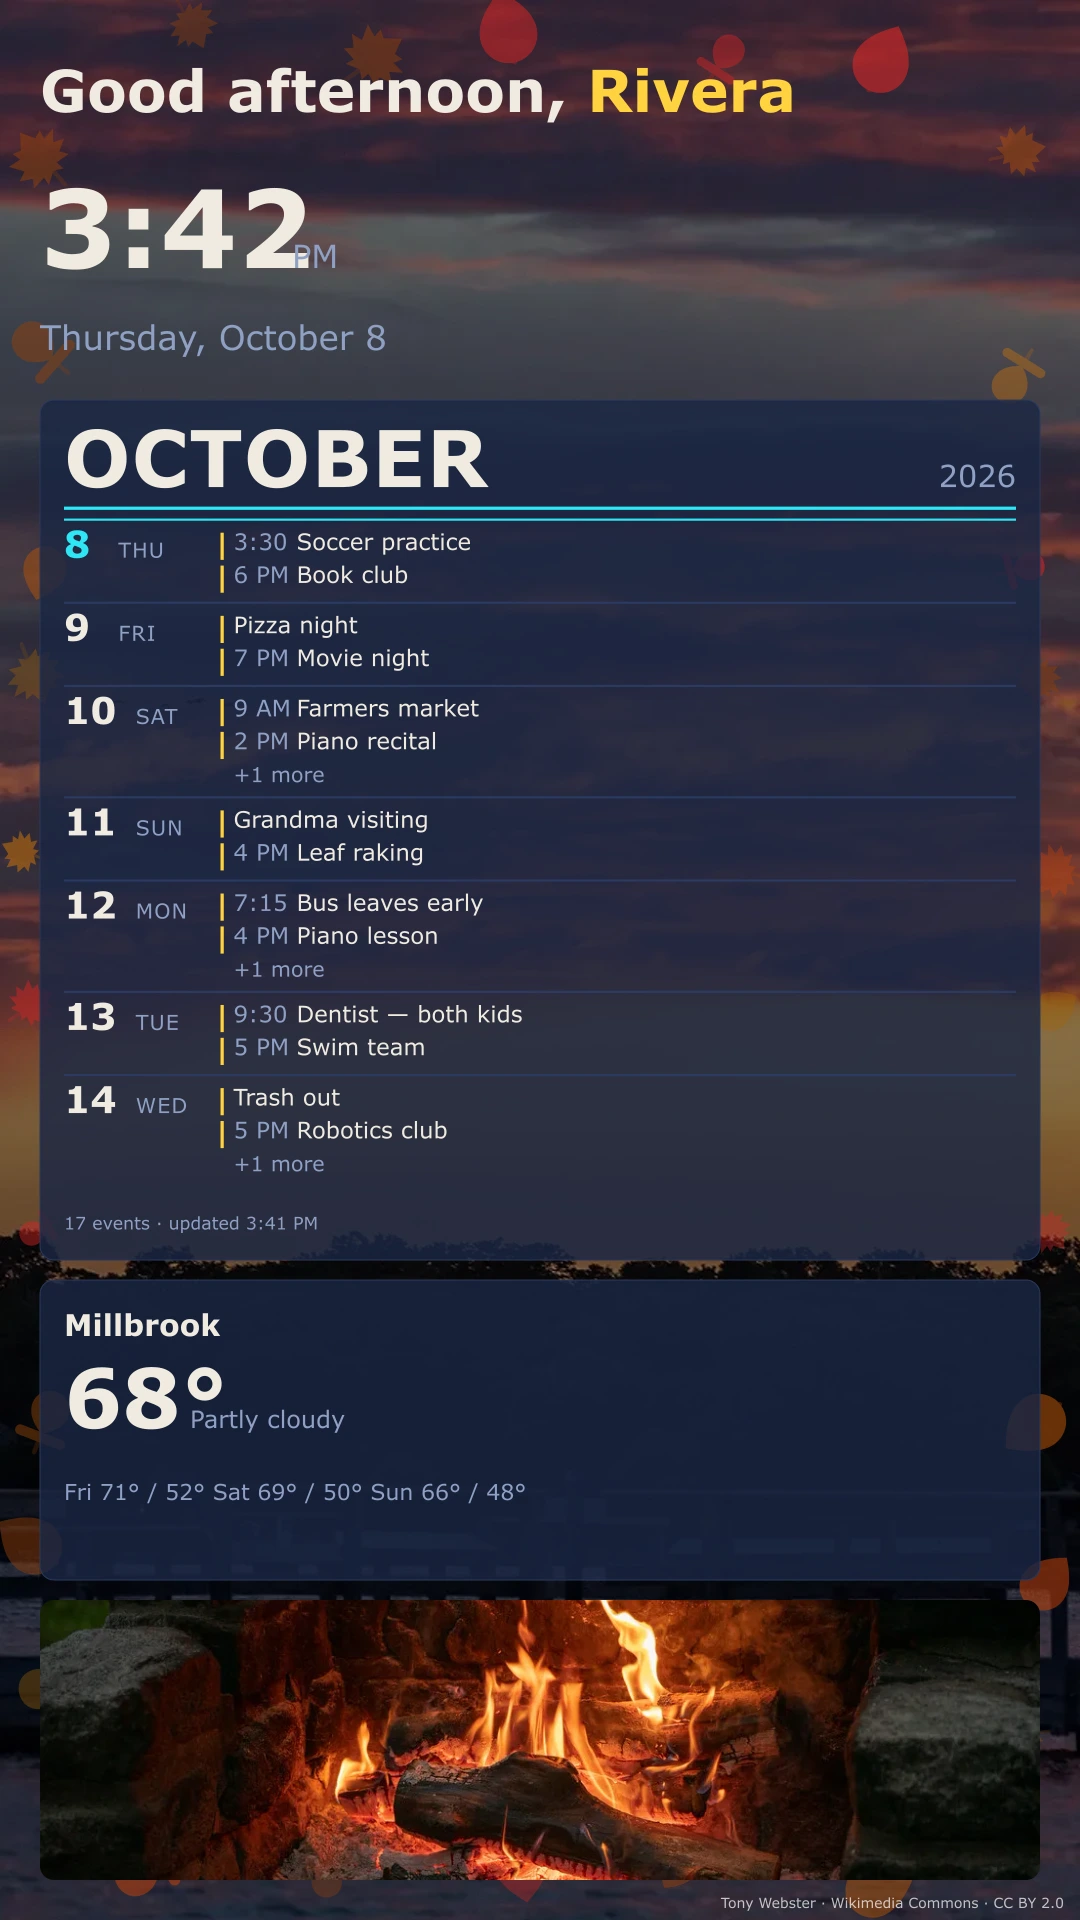
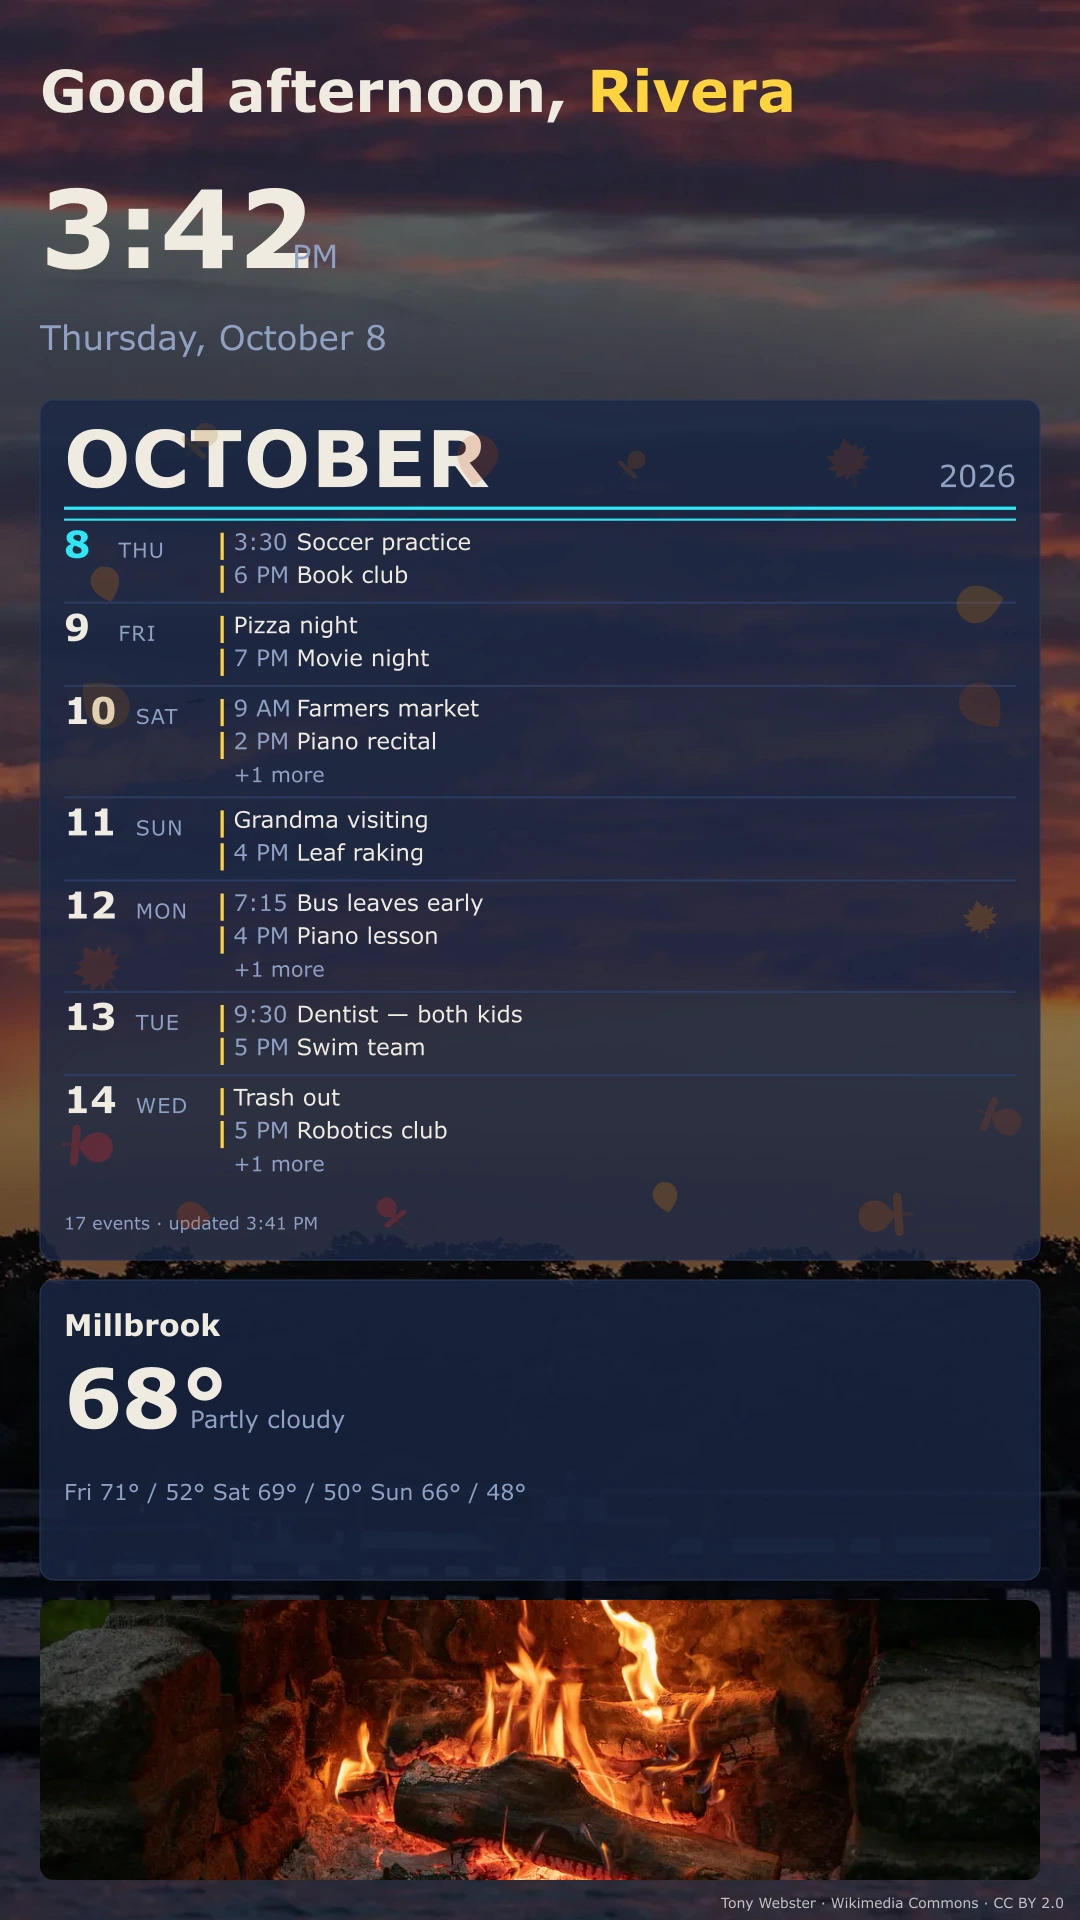
fix(board): the season belongs to the calendar, not the whole screen
The decor lined the entire board at z-index 2, which put it ABOVE the
weather mood layer. Autumn leaves were being drawn on top of the rain
streaks, and on top of whatever wallpaper the household had chosen. Two
ambient systems arguing over one piece of glass is one too many (operator,
2026-08-31).

The season now lines the inside of the calendar card only - the one widget
the season is actually about - at half opacity so it reads as a watermark
behind dates and event titles rather than competing with them. The board is
left to the wallpaper and the weather, which is what the weather layer was
designed to own.

The toggle keeps its name and its position in the editor; only its reach and
its wording change. The demo images are regenerated, because a README
picture showing decor the app no longer draws is a lie in a screenshot.

Claude-Session: https://claude.ai/code/session_01SQrbjAwPUvp651G1yQ6Uip

diff --git a/scripts/render-demo-board.ts b/scripts/render-demo-board.ts
@@ -169,10 +169,15 @@ function strip(): string {
   return p.join("");
 }
 
-/** Fall decor, straight out of the module the app renders from. */
-function decor(): string {
+/**
+ * Fall decor, straight out of the module the app renders from. Draws into a
+ * box rather than the whole board: the app lines the inside of the CALENDAR
+ * CARD, so that the board is left to the wallpaper and the weather layer and
+ * leaves never end up drawn on top of the rain.
+ */
+function decor(w: number, h: number, opacityScale = 1): string {
   const d = SEASON_DECOR.fall;
-  return seasonalFrame("fall", W, H)
+  return seasonalFrame("fall", w, h)
     .map((piece) => {
       const g = d.glyphs[piece.glyph]!;
       const filled = Boolean(g.paths?.length || g.circles?.length);
@@ -184,9 +189,16 @@ function decor(): string {
       const detail = g.detail
         ? `<path d="${g.detail}" fill="none" stroke="${piece.color}" stroke-width="${filled ? 1.3 : 1.7}" stroke-linecap="round" opacity="${filled ? 0.5 : 1}"/>`
         : "";
-      return `<g transform="translate(${piece.x + piece.size / 2} ${piece.y + piece.size / 2}) rotate(${piece.rot}) scale(${k}) translate(-12 -12)" opacity="${piece.opacity}" fill="${piece.color}">${body}${detail}</g>`;
+      const op = (piece.opacity * opacityScale).toFixed(3);
+      return `<g transform="translate(${piece.x + piece.size / 2} ${piece.y + piece.size / 2}) rotate(${piece.rot}) scale(${k}) translate(-12 -12)" opacity="${op}" fill="${piece.color}">${body}${detail}</g>`;
     })
     .join("");
+}
+
+/** Wraps decor in the card's interior, in the card's own zoomed units. */
+function cardDecor(x: number, y: number, w: number, h: number): string {
+  const scale = Math.min(4, Math.max(0.5, Math.sqrt((w * h) / (1300 * 560))));
+  return `<g transform="translate(${x + 24} ${y + 24}) scale(${scale.toFixed(4)})">${decor((w - 48) / scale, (h - 48) / scale, 0.5)}</g>`;
 }
 
 // ------------------------------------------------------------------- build
@@ -223,9 +235,9 @@ async function main(): Promise<void> {
 
   const overlay = `<svg xmlns="http://www.w3.org/2000/svg" width="${W}" height="${H}">
     <rect width="${W}" height="${H}" fill="#000" opacity="${wp.suggestedScrimOpacity.toFixed(3)}"/>
-    ${decor()}
     ${strip()}
     ${calendar()}
+    ${cardDecor(40, 200, 1300, 560)}
     ${weather()}
     ${text(W - 16, H - 12, credit, { size: 14, fill: "rgb(255,255,255,0.72)", anchor: "end" })}
   </svg>`;
@@ -326,30 +338,14 @@ async function renderPortrait(): Promise<void> {
     .png()
     .toBuffer();
 
-  const decorPieces = seasonalFrame("fall", PW, PH)
-    .map((piece) => {
-      const gl = SEASON_DECOR.fall.glyphs[piece.glyph]!;
-      const filled = Boolean(gl.paths?.length || gl.circles?.length);
-      const k = piece.size / 24;
-      const body = [
-        ...(gl.paths ?? []).map((path) => `<path d="${path}"/>`),
-        ...(gl.circles ?? []).map((c) => `<circle cx="${c.cx}" cy="${c.cy}" r="${c.r}"/>`),
-      ].join("");
-      const detail = gl.detail
-        ? `<path d="${gl.detail}" fill="none" stroke="${piece.color}" stroke-width="${filled ? 1.3 : 1.7}" stroke-linecap="round" opacity="${filled ? 0.5 : 1}"/>`
-        : "";
-      return `<g transform="translate(${piece.x + piece.size / 2} ${piece.y + piece.size / 2}) rotate(${piece.rot}) scale(${k}) translate(-12 -12)" opacity="${piece.opacity}" fill="${piece.color}">${body}${detail}</g>`;
-    })
-    .join("");
-
   const overlay = `<svg xmlns="http://www.w3.org/2000/svg" width="${PW}" height="${PH}">
     <rect width="${PW}" height="${PH}" fill="#000" opacity="${wp.suggestedScrimOpacity.toFixed(3)}"/>
-    ${decorPieces}
     <text x="40" y="112" font-family="${FONT}" font-size="58" font-weight="600" fill="${T.text}">Good afternoon, <tspan fill="${T.a1}">Rivera</tspan></text>
     ${text(40, 268, "3:42", { size: 108, weight: 600 })}
     ${text(292, 268, "PM", { size: 32, weight: 500, fill: T.muted })}
     ${text(40, 350, "Thursday, October 8", { size: 34, weight: 500, fill: T.muted })}
     ${portraitCalendar(40, 400, 1000, 860)}
+    ${cardDecor(40, 400, 1000, 860)}
     ${card(40, 1280, 1000, 300)}
     ${text(64, 1336, "Millbrook", { size: 30, weight: 600 })}
     ${text(64, 1428, "68°", { size: 82, weight: 600 })}

diff --git a/apps/web/components/board/seasonal-frame.tsx b/apps/web/components/board/seasonal-frame.tsx
@@ -1,39 +1,52 @@
 import { SEASON_DECOR, seasonFor, seasonalFrame, type Season } from "@/lib/board/season";
 
 /**
- * Seasonal decor scattered down the four edges of the board — leaves in
- * autumn, snowflakes in winter, blossom in spring, sun and green in summer.
+ * Seasonal decor scattered around the inside edges of the CALENDAR CARD —
+ * leaves in autumn, snowflakes in winter, blossom in spring, sun and green in
+ * summer.
+ *
+ * It used to line the whole board, and that was wrong (operator, 2026-08-31).
+ * The board already has a weather layer: rain streaks, drifting snow, a
+ * storm's lightning flash, plus the wallpaper the household chose. Decor
+ * across the whole screen at z-index 2 drew autumn leaves ON TOP of the rain
+ * and competed with every theme. Two ambient systems arguing over one piece
+ * of glass is one too many, so the season now lives where it is actually
+ * about something - the calendar - and the weather keeps the board.
  *
  * A server component on purpose: the layout is a pure function of the season
- * and the canvas size, so there is nothing to hydrate and no JavaScript ships
- * for it. The gentle sway is CSS, which globals.css already disables wholesale
- * under prefers-reduced-motion.
- *
- * Sits at z-index 2 — above the wallpaper and the weather tint, below the
- * photo credit (5) and every widget (10+), so it can never cover content.
+ * and the box it is given, so there is nothing to hydrate and no JavaScript
+ * ships for it. The gentle sway is CSS, which globals.css already disables
+ * wholesale under prefers-reduced-motion.
  */
 export function SeasonalFrame({
   now,
-  canvasW,
-  canvasH,
+  boxW,
+  boxH,
   season,
+  opacityScale = 1,
 }: {
   now: Date;
-  canvasW: number;
-  canvasH: number;
+  /** The box to line, in the coordinate space the caller draws in. */
+  boxW: number;
+  boxH: number;
   /** Overrides the date-derived season (the editor preview uses this). */
   season?: Season;
+  /**
+   * Dimmer inside a card than on open board, because here the decor sits
+   * behind dates and event titles that have to stay readable.
+   */
+  opacityScale?: number;
 }) {
   const s = season ?? seasonFor(now);
   const decor = SEASON_DECOR[s];
-  const pieces = seasonalFrame(s, canvasW, canvasH);
+  const pieces = seasonalFrame(s, boxW, boxH);
 
   return (
     <div
       data-part="seasonal-frame"
       data-season={s}
       aria-hidden
-      style={{ position: "absolute", inset: 0, overflow: "hidden", pointerEvents: "none", zIndex: 2 }}
+      style={{ position: "absolute", inset: 0, overflow: "hidden", pointerEvents: "none", zIndex: 0 }}
     >
       {pieces.map((p, i) => {
         const g = decor.glyphs[p.glyph]!;
@@ -60,7 +73,7 @@ export function SeasonalFrame({
               style={{
                 display: "block",
                 color: p.color,
-                opacity: p.opacity,
+                opacity: +(p.opacity * opacityScale).toFixed(3),
                 animationDuration: `${p.dur}s`,
                 animationDelay: `-${p.delay}s`,
                 filter: "drop-shadow(0 1px 2px rgb(0 0 0 / 0.35))",

diff --git a/apps/web/components/board/widget-view.tsx b/apps/web/components/board/widget-view.tsx
@@ -3,9 +3,10 @@ import { quoteForDay } from "@/lib/board/quotes";
 import { weatherKey, type WeatherPayload } from "@/lib/board/weather-codes";
 import { WeatherView } from "./weather-view";
 import { DayView, MonthView, WeekView } from "./calendar-view";
-import { safeWidgetConfig } from "@/lib/board/widgets";
+import { safeWidgetConfig, textScale } from "@/lib/board/widgets";
 import { ClockWidget } from "./clock";
 import { PhotosWidget } from "./photos";
+import { SeasonalFrame } from "./seasonal-frame";
 
 export type CalendarEvent = { uid: string; title: string; location: string | null; start: string; end: string; allDay: boolean };
 export type CalendarFeed = { events: CalendarEvent[]; syncedAt: Date | null; error: string | null };
@@ -21,6 +22,8 @@ export type BoardData = {
   /** keyed by photos widget id — present only when the widget uses a link. */
   linkPhotos: Record<string, { srcs: string[]; error: string | null }>;
   now: Date;
+  /** Whether the calendar card wears the season. */
+  seasonalDecor: boolean;
 };
 
 function greetingFor(hour: number): string {
@@ -79,11 +82,27 @@ export function WidgetView({ widget, data }: { widget: BoardWidgetRow; data: Boa
     case "calendar": {
       const c = safeWidgetConfig("calendar", widget.config);
       const feed = data.calendars[widget.id];
-      if (c.view === "day") return <DayView now={data.now} feed={feed} />;
-      if (c.view === "month") return <MonthView now={data.now} feed={feed} />;
-      // The week view picks its own layout from how wide a day column would
-      // really be, so it needs the card's size, not just its contents.
-      return <WeekView now={data.now} days={c.days} feed={feed} w={widget.w} h={widget.h} fontScale={c.fontScale} />;
+      const body =
+        c.view === "day" ? (
+          <DayView now={data.now} feed={feed} />
+        ) : c.view === "month" ? (
+          <MonthView now={data.now} feed={feed} />
+        ) : (
+          // The week view picks its own layout from how wide a day column
+          // would really be, so it needs the card's size, not just its
+          // contents.
+          <WeekView now={data.now} days={c.days} feed={feed} w={widget.w} h={widget.h} fontScale={c.fontScale} />
+        );
+      if (!data.seasonalDecor) return body;
+      // The card's interior in the widget's own (zoomed) units, which is the
+      // space the decor has to lay itself out in.
+      const cardScale = textScale("calendar", widget.w, widget.h, c.fontScale);
+      return (
+        <div style={{ position: "relative", height: "100%" }}>
+          <SeasonalFrame now={data.now} boxW={(widget.w - 48) / cardScale} boxH={(widget.h - 48) / cardScale} opacityScale={0.5} />
+          <div style={{ position: "relative", height: "100%", zIndex: 1 }}>{body}</div>
+        </div>
+      );
     }
     case "photos": {
       const c = safeWidgetConfig("photos", widget.config);

diff --git a/apps/web/app/boards/[id]/page.tsx b/apps/web/app/boards/[id]/page.tsx
@@ -3,11 +3,10 @@ import { notFound, redirect } from "next/navigation";
 import { getSessionUser } from "@/lib/auth/sessions";
 import { termsCurrent } from "@/lib/terms";
 import { getBoard } from "@/lib/board/boards";
-import { canvasSize, publicWidgetConfig } from "@/lib/board/widgets";
+import { publicWidgetConfig } from "@/lib/board/widgets";
 import { listCollections } from "@/lib/board/wallpapers";
 import { THEMES, themeById, themeVars } from "@/lib/themes";
 import { BoardBackdrop } from "@/components/board/backdrop";
-import { SeasonalFrame } from "@/components/board/seasonal-frame";
 import { loadBoardScene } from "@/components/board/render-data";
 import { WidgetView } from "@/components/board/widget-view";
 import { BoardEditor } from "./editor";
@@ -23,7 +22,6 @@ export default async function BoardPage({ params }: { params: Promise<{ id: stri
   if (!board) notFound();
 
   const [scene, collections] = await Promise.all([loadBoardScene(board, user.displayName), listCollections(user.id)]);
-  const canvas = canvasSize(board.canvas);
 
   // Server-rendered widget content, handed to the client editor by id so the
   // editor owns geometry (drag/resize) without re-implementing any renderer.
@@ -63,15 +61,7 @@ export default async function BoardPage({ params }: { params: Promise<{ id: stri
       suggestedScrim={scene.wallpaper?.suggestedScrimOpacity ?? null}
       collections={collections}
       moodLabel={scene.mood?.label ?? null}
-      backdrop={
-        <>
-          <BoardBackdrop wallpaper={scene.wallpaper} scrimOpacity={scene.scrimOpacity} mood={scene.mood} canvasW={board.canvas === "ULTRAWIDE" ? 2560 : 1920} effects />
-          {/* The decor previews here so the toggle has visible effect. The
-              birthday celebration deliberately does NOT — nobody wants
-              confetti over the board they are trying to drag widgets on. */}
-          {board.style.seasonalDecor ? <SeasonalFrame now={scene.data.now} canvasW={canvas.w} canvasH={canvas.h} /> : null}
-        </>
-      }
+      backdrop={<BoardBackdrop wallpaper={scene.wallpaper} scrimOpacity={scene.scrimOpacity} mood={scene.mood} canvasW={board.canvas === "ULTRAWIDE" ? 2560 : 1920} effects />}
     />
   );
 }

diff --git a/apps/web/app/boards/[id]/view/page.tsx b/apps/web/app/boards/[id]/view/page.tsx
@@ -9,7 +9,6 @@ import { BoardBackdrop } from "@/components/board/backdrop";
 import { WidgetFrame } from "@/components/board/widget-frame";
 import { loadBoardScene } from "@/components/board/render-data";
 import { WidgetView } from "@/components/board/widget-view";
-import { SeasonalFrame } from "@/components/board/seasonal-frame";
 import { BirthdayCelebration } from "@/components/board/birthday-celebration";
 import { RefreshTimer } from "@/app/status/refresh-timer";
 import { KioskControls } from "./kiosk-controls";
@@ -40,7 +39,6 @@ export default async function BoardViewPage({ params }: { params: Promise<{ id: 
       <div className="h-full w-full">
         <BoardCanvas vars={vars} width={size.w} height={size.h} className="h-full">
           <BoardBackdrop wallpaper={scene.wallpaper} scrimOpacity={scene.scrimOpacity} mood={scene.mood} canvasW={size.w} effects rightsNote={scene.rightsNote} />
-          {board.style.seasonalDecor ? <SeasonalFrame now={scene.data.now} canvasW={size.w} canvasH={size.h} /> : null}
           {board.widgets.map((w) => (
             <WidgetFrame key={w.id} type={w.type} x={w.x} y={w.y} w={w.w} h={w.h} z={10 + w.z} plain={WIDGET_META[w.type].plain} translucent={scene.wallpaper !== null} scale={textScale(w.type, w.w, w.h, (safeWidgetConfig(w.type, w.config) as { fontScale: number }).fontScale)}>
               <WidgetView widget={w} data={scene.data} />

diff --git a/apps/web/app/boards/[id]/editor.tsx b/apps/web/app/boards/[id]/editor.tsx
@@ -505,11 +505,12 @@ function DisplaySettings({
         <span className={label} style={{ color: "var(--hearth-text-muted)" }}>Seasons &amp; celebrations</span>
         <label className="mt-1 flex items-center gap-2">
           <input type="checkbox" checked={board.seasonalDecor} onChange={(e) => onSave({ seasonalDecor: e.target.checked })} />
-          Decorate the edges with the season
+          Show the season on the calendar
         </label>
         <p className="mt-1 text-[11px]" style={{ color: "var(--hearth-text-muted)" }}>
-          Right now that is <strong>{SEASON_DECOR[seasonFor(new Date())].label.toLowerCase()}</strong>. It changes itself on the first of
-          March, June, September and December. The decor sits behind your widgets and never covers one.
+          Right now that is <strong>{SEASON_DECOR[seasonFor(new Date())].label.toLowerCase()}</strong>, and it changes itself on the first of
+          March, June, September and December. It lines the inside of the calendar card only &mdash; the rest of the board is left to your
+          wallpaper and the weather, so leaves never end up drawn over the rain.
         </p>
         <label className="mt-3 flex items-center gap-2">
           <input type="checkbox" checked={board.birthdayCheer} onChange={(e) => onSave({ birthdayCheer: e.target.checked })} />

diff --git a/apps/web/app/d/[token]/page.tsx b/apps/web/app/d/[token]/page.tsx
@@ -6,7 +6,6 @@ import { BoardBackdrop } from "@/components/board/backdrop";
 import { WidgetFrame } from "@/components/board/widget-frame";
 import { loadBoardScene } from "@/components/board/render-data";
 import { WidgetView } from "@/components/board/widget-view";
-import { SeasonalFrame } from "@/components/board/seasonal-frame";
 import { BirthdayCelebration } from "@/components/board/birthday-celebration";
 import { RefreshTimer } from "@/app/status/refresh-timer";
 import { boardForDisplayToken } from "@/lib/board/display-links";
@@ -44,7 +43,6 @@ export default async function DisplayPage({ params }: { params: Promise<{ token:
       <div className="h-full w-full">
         <BoardCanvas vars={vars} width={size.w} height={size.h} className="h-full">
           <BoardBackdrop wallpaper={scene.wallpaper} scrimOpacity={scene.scrimOpacity} mood={scene.mood} canvasW={size.w} effects rightsNote={scene.rightsNote} />
-          {board.style.seasonalDecor ? <SeasonalFrame now={scene.data.now} canvasW={size.w} canvasH={size.h} /> : null}
           {board.widgets.map((w) => (
             <WidgetFrame
               key={w.id}

diff --git a/apps/web/components/board/render-data.ts b/apps/web/components/board/render-data.ts
@@ -76,7 +76,7 @@ export async function loadBoardData(board: BoardFull, viewerName: string): Promi
     if (safeWidgetConfig("calendar", w.config).icsSecret) calendars[id] ??= { events: [], syncedAt: null, error: null };
   }
 
-  return { viewerName, photoSrcs: loginPhotoSet().map(largestSrc), weather, calendars, linkPhotos, now: new Date() };
+  return { viewerName, photoSrcs: loginPhotoSet().map(largestSrc), weather, calendars, linkPhotos, now: new Date(), seasonalDecor: board.style.seasonalDecor !== false };
 }
 
 /** Data + backdrop + token overrides — the full scene for one board. */
